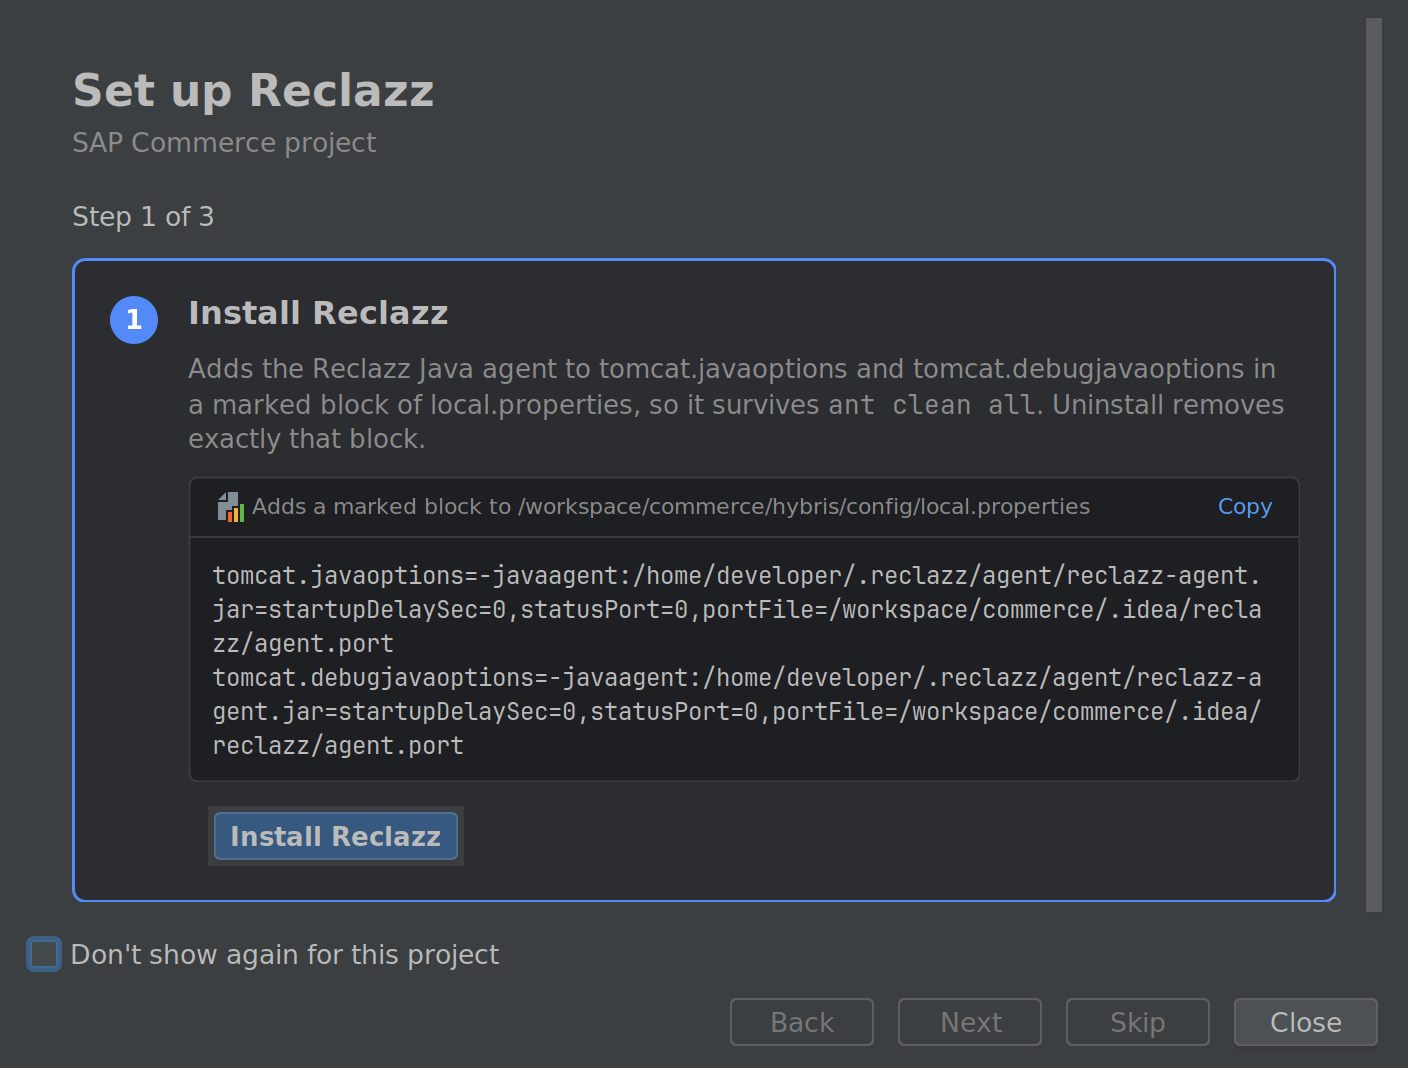
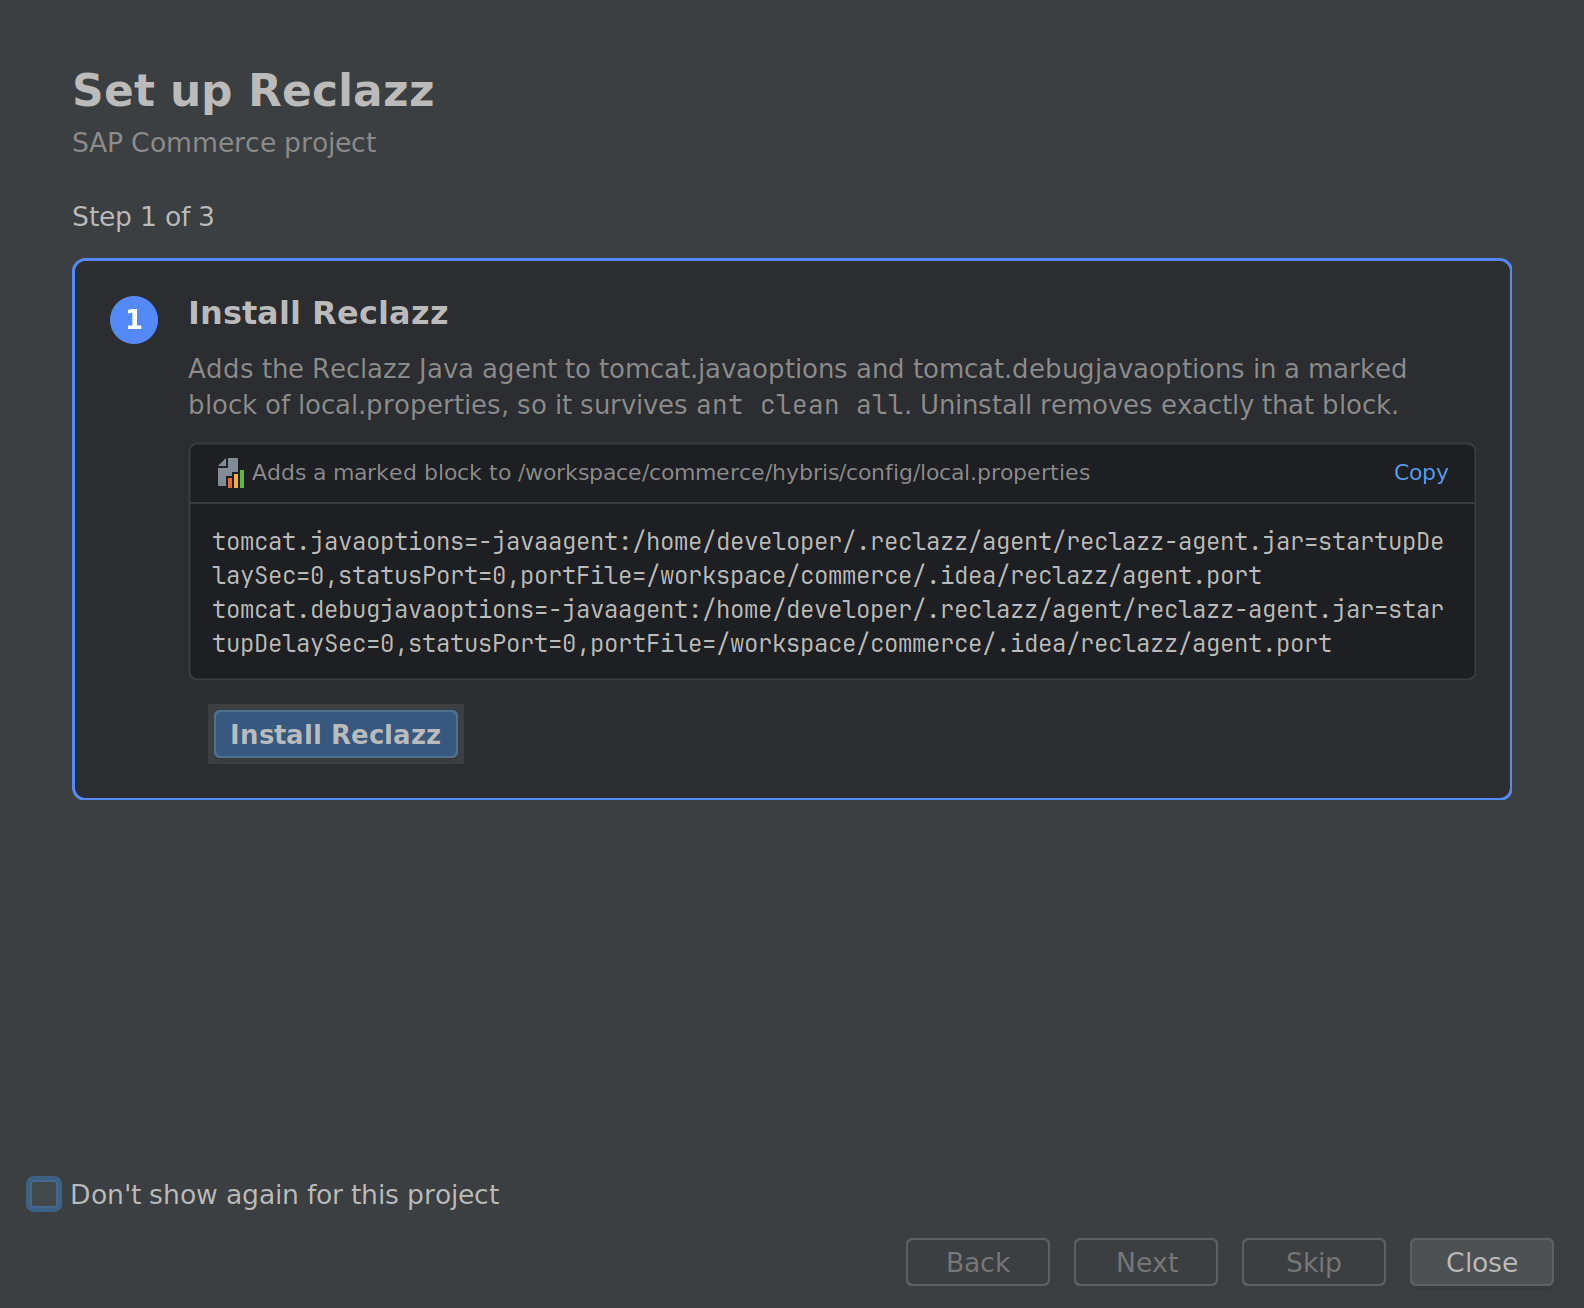
Say that setup takes a few clicks and show the current setup wizard on the site
The home page said setup takes a few minutes, which overstated it, and its wizard screenshots came
from the version whose dialog needed a scrollbar. The setup section now says it takes a few clicks
in English and Turkish, and every wizard and Settings image on the home page, Get started and the
SAP Commerce guides is a fresh capture of the current plugin in light and dark themes.

Changed region(s): [[0.0312, 0.0, 1.0, 0.8652], [0.5312, 0.927, 0.9688, 0.9888], [0.0, 0.8652, 0.3438, 0.927]]

diff --git a/docs/site/sap-commerce.html b/docs/site/sap-commerce.html
@@ -1,4 +1,4 @@
-<section aria-labelledby="install-from-marketplace"><h2 id="install-from-marketplace">Install from JetBrains Marketplace (recommended)</h2><ol><li>In IntelliJ IDEA, open <strong>Settings → Plugins → Marketplace</strong>, search <strong>Reclazz</strong> and choose <strong>Install</strong>. Restart IntelliJ if prompted.</li><li>Open your SAP Commerce project. In <strong>Settings → Tools → Reclazz</strong>, tick <strong>Enable Reclazz in this project</strong> and choose <strong>Apply</strong>.</li><li>Choose <strong>Install Java Agent</strong> in the <strong>SAP Commerce</strong> section. The agent is included; the plugin backs up the startup-properties file.</li><li>Follow the setup check. If wrapper options differ, run <code>ant server</code>, then restart your development server. The <a href="{{REF docs/sap-commerce.md#enable-it-from-the-shell}}">detailed guide</a> explains these commands.</li><li>Choose <strong>Check setup</strong>. Once connected, change an existing method, compile with your usual build and repeat the same application action.</li></ol><figure class="setup-shot"><a href="/assets/setup/install-light.webp"><picture class="wizard-picture"><source media="(prefers-color-scheme: dark)" srcset="/assets/setup/install-dark.webp"><img src="/assets/setup/install-light.webp" width="1408" height="1068" loading="lazy" alt="The Install Java Agent step in IntelliJ IDEA"></picture></a><figcaption>Install Java Agent shows the development server settings before you apply them.</figcaption></figure><script src="/assets/setup-preview.js" defer></script><p>It worked when the same server returns your changed result without another restart.</p><p><a class="btn btn-primary" href="https://plugins.jetbrains.com/plugin/33498-reclazz">Install from Marketplace</a> · <a href="/tr/sap-commerce-kurulum/" lang="tr" hreflang="tr">Türkçe kurulum</a></p></section><section aria-labelledby="setup"><h2 id="setup">Start with one working reload</h2><p>Attach Reclazz once, compile a small Java edit and check the changed result in the running server.</p><ol><li>Follow the <a href="/docs/quickstart/#sap-intellij">IntelliJ + SAP Commerce setup</a>.</li><li>Start the server with the Java agent and wait for watching to begin. Under <code>hybrisserver.sh</code>, <code>hybrisHome=</code> is optional: SAP Commerce supplies <code>HYBRIS_BIN_DIR</code>. Keep an explicit override for other startup paths.</li><li>Compile your edit, repeat the same operation and check its actual result.</li></ol><p><a href="{{REF docs/installation.md#your-first-reload}}">Read the full scope</a></p></section>
+<section aria-labelledby="install-from-marketplace"><h2 id="install-from-marketplace">Install from JetBrains Marketplace (recommended)</h2><ol><li>In IntelliJ IDEA, open <strong>Settings → Plugins → Marketplace</strong>, search <strong>Reclazz</strong> and choose <strong>Install</strong>. Restart IntelliJ if prompted.</li><li>Open your SAP Commerce project. In <strong>Settings → Tools → Reclazz</strong>, tick <strong>Enable Reclazz in this project</strong> and choose <strong>Apply</strong>.</li><li>Choose <strong>Install Java Agent</strong> in the <strong>SAP Commerce</strong> section. The agent is included; the plugin backs up the startup-properties file.</li><li>Follow the setup check. If wrapper options differ, run <code>ant server</code>, then restart your development server. The <a href="{{REF docs/sap-commerce.md#enable-it-from-the-shell}}">detailed guide</a> explains these commands.</li><li>Choose <strong>Check setup</strong>. Once connected, change an existing method, compile with your usual build and repeat the same application action.</li></ol><figure class="setup-shot"><a href="/assets/setup/install-light.webp"><picture class="wizard-picture"><source media="(prefers-color-scheme: dark)" srcset="/assets/setup/install-dark.webp"><img src="/assets/setup/install-light.webp" width="1584" height="1308" loading="lazy" alt="The Install Java Agent step in IntelliJ IDEA"></picture></a><figcaption>Install Java Agent shows the development server settings before you apply them.</figcaption></figure><script src="/assets/setup-preview.js" defer></script><p>It worked when the same server returns your changed result without another restart.</p><p><a class="btn btn-primary" href="https://plugins.jetbrains.com/plugin/33498-reclazz">Install from Marketplace</a> · <a href="/tr/sap-commerce-kurulum/" lang="tr" hreflang="tr">Türkçe kurulum</a></p></section><section aria-labelledby="setup"><h2 id="setup">Start with one working reload</h2><p>Attach Reclazz once, compile a small Java edit and check the changed result in the running server.</p><ol><li>Follow the <a href="/docs/quickstart/#sap-intellij">IntelliJ + SAP Commerce setup</a>.</li><li>Start the server with the Java agent and wait for watching to begin. Under <code>hybrisserver.sh</code>, <code>hybrisHome=</code> is optional: SAP Commerce supplies <code>HYBRIS_BIN_DIR</code>. Keep an explicit override for other startup paths.</li><li>Compile your edit, repeat the same operation and check its actual result.</li></ol><p><a href="{{REF docs/installation.md#your-first-reload}}">Read the full scope</a></p></section>
 <section aria-labelledby="daily-edits"><h2 id="daily-edits">Find your daily edit</h2>{{ROWS:items,sap-schema,sap-config,sap-localization,impex,interceptor,occ,backoffice-config,backoffice-socket,backoffice-module,sap-process,sap-solr-reindex,extension}}</section>
 <section aria-labelledby="generated-types"><h2 id="generated-types">Keep generation and persistence separate</h2><p>Check generated Java, database schema and reflective model access separately. The items and schema rows above name the required action.</p><p><a href="{{REF docs/usage.md#what-cannot-be-hot-reloaded}}">Read the full scope</a></p></section>
 <section aria-labelledby="opt-ins"><h2 id="opt-ins">Choose automation deliberately</h2><p>Review the <a href="/docs/configuration-reference/#options-sap-commerce">SAP Commerce options</a> before enabling imports, schema updates or targeted indexing. Check application data as well as the reload log.</p><p><a href="{{REF docs/usage.md#agent-arguments}}">Read the full scope</a></p></section>

diff --git a/website/static/get-started/index.html b/website/static/get-started/index.html
@@ -19,19 +19,19 @@
 <ol class="wizard-steps expanded">
 <li>
 <figure>
-<a class="screenshot-link" href="/assets/setup/install-light.webp"><picture class="wizard-picture"><source media="(prefers-color-scheme: dark)" srcset="/assets/setup/install-dark.webp"><img src="/assets/setup/install-light.webp" alt="" loading="lazy" decoding="async" width="1408" height="1068"></picture><span class="sr-only" data-i18n="setup.fullsize">Open full-size screenshot</span></a>
+<a class="screenshot-link" href="/assets/setup/install-light.webp"><picture class="wizard-picture"><source media="(prefers-color-scheme: dark)" srcset="/assets/setup/install-dark.webp"><img src="/assets/setup/install-light.webp" alt="" loading="lazy" decoding="async" width="1584" height="1308"></picture><span class="sr-only" data-i18n="setup.fullsize">Open full-size screenshot</span></a>
 </figure>
 <div class="step-copy">
 <h3><span class="step-index">1</span><span data-i18n="step.install">Add the agent to local.properties</span></h3><p><span data-i18n="step.install.body">Review the changes to <code>local.properties</code>, then choose <b>Install Reclazz</b>.</span></p></div></li>
 <li>
 <figure>
-<a class="screenshot-link" href="/assets/setup/ant-light.webp"><picture class="wizard-picture"><source media="(prefers-color-scheme: dark)" srcset="/assets/setup/ant-dark.webp"><img src="/assets/setup/ant-light.webp" alt="" loading="lazy" decoding="async" width="1408" height="1068"></picture><span class="sr-only" data-i18n="setup.fullsize">Open full-size screenshot</span></a>
+<a class="screenshot-link" href="/assets/setup/ant-light.webp"><picture class="wizard-picture"><source media="(prefers-color-scheme: dark)" srcset="/assets/setup/ant-dark.webp"><img src="/assets/setup/ant-light.webp" alt="" loading="lazy" decoding="async" width="1584" height="1308"></picture><span class="sr-only" data-i18n="setup.fullsize">Open full-size screenshot</span></a>
 </figure>
 <div class="step-copy">
 <h3><span class="step-index">2</span><span data-i18n="step.ant">Run ant server</span></h3><p><span data-i18n="step.ant.body">Choose <b>Run ant server</b>. When it finishes, restart your server once to load the agent.</span></p></div></li>
 <li>
 <figure>
-<a class="screenshot-link" href="/assets/setup/assistant-light.webp"><picture class="wizard-picture"><source media="(prefers-color-scheme: dark)" srcset="/assets/setup/assistant-dark.webp"><img src="/assets/setup/assistant-light.webp" alt="" loading="lazy" decoding="async" width="1408" height="1068"></picture><span class="sr-only" data-i18n="setup.fullsize">Open full-size screenshot</span></a>
+<a class="screenshot-link" href="/assets/setup/assistant-light.webp"><picture class="wizard-picture"><source media="(prefers-color-scheme: dark)" srcset="/assets/setup/assistant-dark.webp"><img src="/assets/setup/assistant-light.webp" alt="" loading="lazy" decoding="async" width="1584" height="1308"></picture><span class="sr-only" data-i18n="setup.fullsize">Open full-size screenshot</span></a>
 </figure>
 <div class="step-copy">
 <h3><span class="step-index">3</span><span data-i18n="step.assistant">Connect an AI assistant (optional)</span></h3><p><span data-i18n="step.assistant.body">Optional. Connect your AI assistant to see reload results, or finish setup and work in the IDE.</span></p></div></li></ol></div>
@@ -47,7 +47,7 @@
 <div class="sa-wrap settings-row"><div>
 <h2><span data-i18n="start.settings">Reopen the wizard or change a setting</span></h2><p><span data-i18n="start.settings.body">Open Settings → Tools → Reclazz to review the settings for this project. To repeat a setup step, open Tools → Set Up Reclazz.</span></p><a class="text-link" href="/docs/quickstart/"><span data-i18n="start.cli">Set up with Gradle, Maven or the standalone agent</span></a></div>
 <figure>
-<a class="screenshot-link" href="/assets/setup/settings-light.webp"><picture class="wizard-picture"><source media="(prefers-color-scheme: dark)" srcset="/assets/setup/settings-dark.webp"><img src="/assets/setup/settings-light.webp" alt="" loading="lazy" decoding="async" width="1312" height="2000"></picture><span class="sr-only" data-i18n="setup.fullsize">Open full-size screenshot</span></a>
+<a class="screenshot-link" href="/assets/setup/settings-light.webp"><picture class="wizard-picture"><source media="(prefers-color-scheme: dark)" srcset="/assets/setup/settings-dark.webp"><img src="/assets/setup/settings-light.webp" alt="" loading="lazy" decoding="async" width="1312" height="2432"></picture><span class="sr-only" data-i18n="setup.fullsize">Open full-size screenshot</span></a>
 </figure></div>
 </section>
 </main>{{SITE_FOOTER}}{{SITE_UTILITIES}}

diff --git a/website/static/index.html b/website/static/index.html
@@ -65,24 +65,24 @@
 </section>
 <section id="install" class="sa-section sa-setup">
 <div class="sa-wrap">
-<h2><span data-i18n="install.title">Setup takes a few minutes</span></h2>
-<p class="sa-intro"><span data-i18n="install.intro">The plugin opens a setup window the first time you open your project. For SAP Commerce it adds two lines to local.properties, runs ant server for you, and tells you when to restart once. For a Spring Boot or plain Java project you only switch Reclazz on.</span></p>
+<h2><span data-i18n="install.title">Set up in a few clicks</span></h2>
+<p class="sa-intro"><span data-i18n="install.intro">The plugin opens a setup window the first time you open your project. For SAP Commerce it adds two lines to local.properties and runs ant server for you; restart your server once and you are done. For a Spring Boot or plain Java project you only switch Reclazz on.</span></p>
 <ol class="wizard-steps">
 <li>
 <figure>
-<a class="screenshot-link" href="/assets/setup/install-light.webp"><picture class="wizard-picture"><source media="(prefers-color-scheme: dark)" srcset="/assets/setup/install-dark.webp"><img src="/assets/setup/install-light.webp" alt="" loading="lazy" decoding="async" width="1408" height="1068"></picture><span class="sr-only" data-i18n="setup.fullsize">Open full-size screenshot</span></a>
+<a class="screenshot-link" href="/assets/setup/install-light.webp"><picture class="wizard-picture"><source media="(prefers-color-scheme: dark)" srcset="/assets/setup/install-dark.webp"><img src="/assets/setup/install-light.webp" alt="" loading="lazy" decoding="async" width="1584" height="1308"></picture><span class="sr-only" data-i18n="setup.fullsize">Open full-size screenshot</span></a>
 </figure>
 <div class="step-copy">
 <h3><span data-i18n="step.install">1. Add the agent to local.properties</span></h3><p><span data-i18n="step.install.body">The plugin shows the two lines before it writes them. You can remove them again with one click.</span></p></div></li>
 <li>
 <figure>
-<a class="screenshot-link" href="/assets/setup/ant-light.webp"><picture class="wizard-picture"><source media="(prefers-color-scheme: dark)" srcset="/assets/setup/ant-dark.webp"><img src="/assets/setup/ant-light.webp" alt="" loading="lazy" decoding="async" width="1408" height="1068"></picture><span class="sr-only" data-i18n="setup.fullsize">Open full-size screenshot</span></a>
+<a class="screenshot-link" href="/assets/setup/ant-light.webp"><picture class="wizard-picture"><source media="(prefers-color-scheme: dark)" srcset="/assets/setup/ant-dark.webp"><img src="/assets/setup/ant-light.webp" alt="" loading="lazy" decoding="async" width="1584" height="1308"></picture><span class="sr-only" data-i18n="setup.fullsize">Open full-size screenshot</span></a>
 </figure>
 <div class="step-copy">
 <h3><span data-i18n="step.ant">2. Run ant server</span></h3><p><span data-i18n="step.ant.body">The wizard runs it and shows the output. If your server is still running, it tells you to stop it first.</span></p></div></li>
 <li>
 <figure>
-<a class="screenshot-link" href="/assets/setup/assistant-light.webp"><picture class="wizard-picture"><source media="(prefers-color-scheme: dark)" srcset="/assets/setup/assistant-dark.webp"><img src="/assets/setup/assistant-light.webp" alt="" loading="lazy" decoding="async" width="1408" height="1068"></picture><span class="sr-only" data-i18n="setup.fullsize">Open full-size screenshot</span></a>
+<a class="screenshot-link" href="/assets/setup/assistant-light.webp"><picture class="wizard-picture"><source media="(prefers-color-scheme: dark)" srcset="/assets/setup/assistant-dark.webp"><img src="/assets/setup/assistant-light.webp" alt="" loading="lazy" decoding="async" width="1584" height="1308"></picture><span class="sr-only" data-i18n="setup.fullsize">Open full-size screenshot</span></a>
 </figure>
 <div class="step-copy">
 <h3><span data-i18n="step.assistant">3. Connect an AI assistant (optional)</span></h3><p><span data-i18n="step.assistant.body">Lets Claude Code, Cursor or Codex see whether a change was reloaded. Skip it if you don't use one.</span></p></div></li></ol><a class="text-link" href="/get-started/"><span data-i18n="install.link">Open the setup guide</span></a></div>

diff --git a/website/static/tr/sap-commerce-kurulum/index.html b/website/static/tr/sap-commerce-kurulum/index.html
@@ -85,7 +85,7 @@
         <p>Çalışan Java ajana bağlıyken AutoCompile, ImpEx import, Allow REMOVE, Backoffice reset, Update Running System ve Solr reindex seçenekleri <strong>Apply</strong> ile ve yeniden bağlanınca canlı uygulanır. Ayarlardaki durum satırı Java ajanın gerçekte kullandığı değerleri ya da bekleme/hata sonucunu gösterir. Watch extensions içindeki keşfedilmiş eklentiler adlarıyla canlı eklenip çıkarılabilir. Önceden yüklenmiş ve enstrümante edilmemiş sınıflarda yeniden başlatmaya kadar yalnız gövde değişir; sonradan yüklenen sınıflar yapısal reload desteği alabilir. <code>*</code> veya boş listeyle tümünü izlemeye geçiş ve diğer başlangıç ayarları için <strong>Reinstall</strong> düğmesine basıp 3. adımı tekrarlayın.</p>
         <p>Yazılan blok makineye özel bir yol içerir; dosya git'te tutuluyorsa commit etmeyin.</p>
 
-        <figure class="setup-shot"><a href="/assets/setup/install-light.webp"><picture class="wizard-picture"><source media="(prefers-color-scheme: dark)" srcset="/assets/setup/install-dark.webp"><img src="/assets/setup/install-light.webp" width="1408" height="1068" loading="lazy" alt="IntelliJ IDEA içindeki Install Java Agent adımı"></picture></a><figcaption>Install Java Agent adımında, eklentinin yerel sunucuya uygulayacağı ayarları görebilirsiniz.</figcaption></figure><script src="/assets/setup-preview.js" defer></script>
+        <figure class="setup-shot"><a href="/assets/setup/install-light.webp"><picture class="wizard-picture"><source media="(prefers-color-scheme: dark)" srcset="/assets/setup/install-dark.webp"><img src="/assets/setup/install-light.webp" width="1584" height="1308" loading="lazy" alt="IntelliJ IDEA içindeki Install Java Agent adımı"></picture></a><figcaption>Install Java Agent adımında, eklentinin yerel sunucuya uygulayacağı ayarları görebilirsiniz.</figcaption></figure><script src="/assets/setup-preview.js" defer></script>
         <h2 id="manuel-yol">2B. Manuel yol</h2>
         <p>Ayarları kendiniz yönetmek istiyorsanız bu üç adımı izleyin; Install Java Agent düğmesine basmayın.</p>
 
